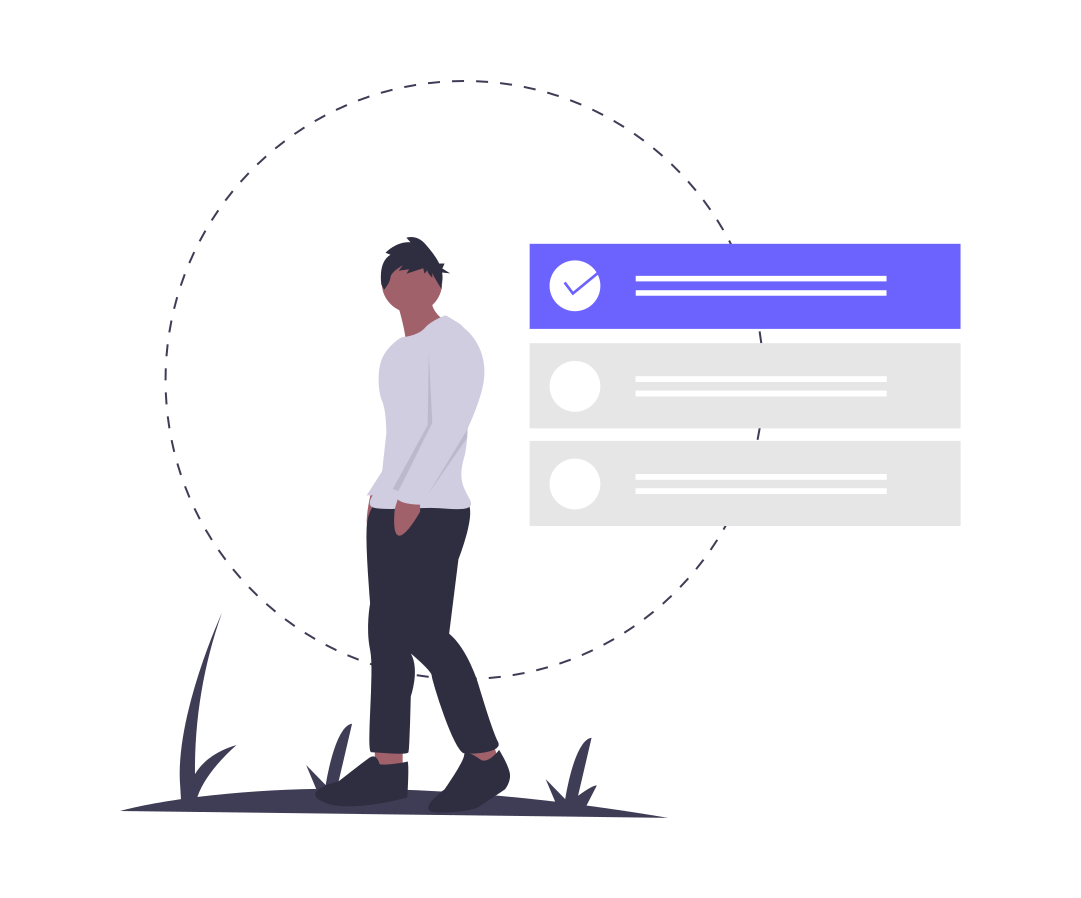
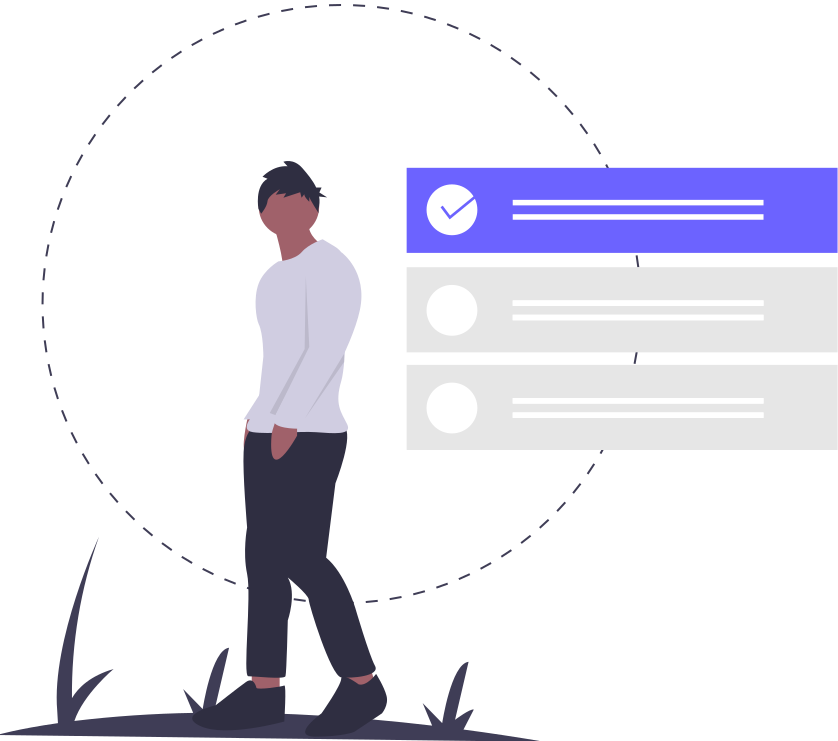
homepage edited and css

Changed region(s): [[0.0, 0.2173, 1.0, 1.0], [0.0931, 0.7449, 0.1241, 0.807], [0.1862, 0.7139, 0.2172, 0.7449]]

diff --git a/public/css/style.css b/public/css/style.css
@@ -1,0 +1,52 @@
+* {
+    margin: 0px;
+    padding: 0px;
+    box-sizing: border-box;
+}
+.btn-primary {
+    background-color: #6C63FF !important;
+    color: rgb(255, 255, 255);
+    margin-right: 10px;
+}
+.text-container h1 {
+    font-family: 'Ubuntu', sans-serif;
+    font-weight: bold;
+    font-size: 4rem;
+}
+.text-container h6 {
+    font-family: 'Ubuntu', sans-serif;
+    font-size: 2rem;
+    color: 	#696969;
+    font-weight: normal;
+    margin-top: 50px;  
+}
+.flex-container {
+    display: flex;
+    flex-direction: row;
+    justify-content: center;
+    align-items: center;
+}
+.text-container {
+    width: 31em;
+    height: 35em;
+    flex-direction: row;
+    padding-top: 50px;  
+}
+.img-container {
+    width: 35em;
+    height: 35em;
+    flex-direction: row;
+}
+.img-container img {
+    width: 35em;
+    height: 30em;
+}
+.btn-container {
+    padding-top: 60px;
+}
+
+.btn-container .btn {
+    height: 3em;
+    width: 14rem;
+}
+ 
